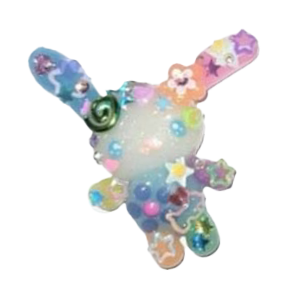
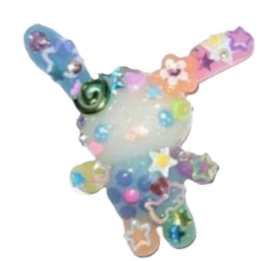
file paths & animation

Changed region(s): [[0.092, 0.092, 0.9808, 1.0]]

diff --git a/index.html b/index.html
@@ -13,12 +13,20 @@
     <div>
         <img src="imgs/sand.jpg" width="250px"/>
     </div>
-    <p id="green">THIS PARAGRAPH IS BLUE</p>
-    <p>THIS PARAGRAPH IS BLUE</p>
 
+    <img src="imgs/sanrio.png" width="250px" id="dancing-sanrio"/>
+
+    <!-- use id to give identify a single element -->
+    <p id="green">THIS PARAGRAPH IS GREEN</p>
     <p>THIS PARAGRAPH IS BLUE</p>
     <p>THIS PARAGRAPH IS BLUE</p>
-    <p class="red">BUT THIS ONE IS NOT</p>
+    <p>THIS PARAGRAPH IS BLUE</p>
+    <!-- use class to give custom CSS properties to multiple elements -->
+    <p class="red">BUT THESE ONES ARE NOT</p>
+    <p class="red">BUT THESE ONES ARE NOT</p>
+    <p class="red">BUT THESE ONES ARE NOT</p>
+    <p class="red">BUT THESE ONES ARE NOT</p>
+    <p class="red">BUT THESE ONES ARE NOT</p>
 </body>
 <footer>
 

diff --git a/index.css b/index.css
@@ -30,3 +30,20 @@ div {
     justify-content: center; 
     align-items: center;  
 }
+
+/* https://www.w3schools.com/cssref/css3_pr_animation.php */
+#dancing-sanrio {
+    animation: dance 1.5s infinite;
+}
+
+@keyframes dance {
+    0% {
+        transform: rotate(-20deg);
+    }
+    50% {
+        transform: rotate(20deg);
+    }
+    100% {
+        transform: rotate(-20deg);
+    }
+}
